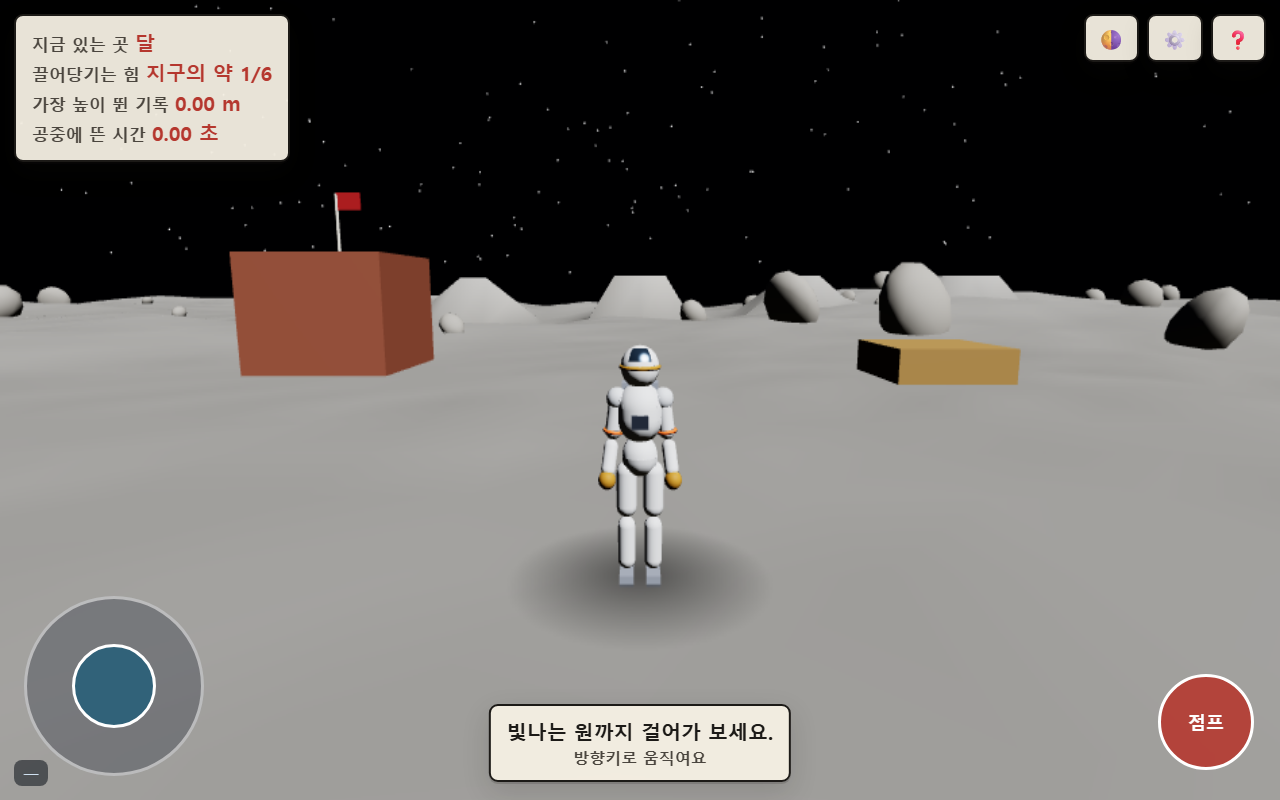
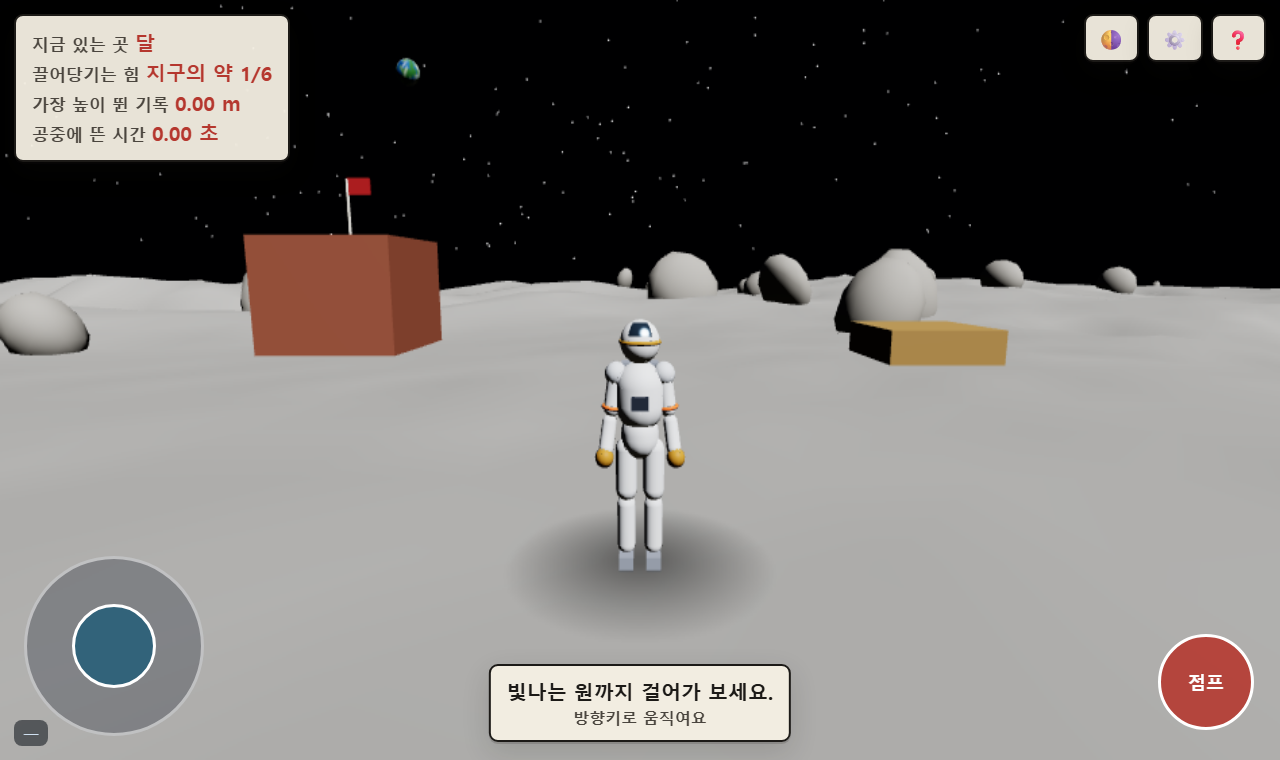
feat: 천체별 지형·하늘에 뜬 천체·관측 기능 (페이즈 3)
- 유로파 추가 (중력 지구의 약 1/7). 지구·달·화성·유로파 4곳
- 천체별 절차 지형
  · 달: 멱법칙 분포 크레이터 90개. 그릇 + 테두리 융기 + 방출물
    (테두리 융기가 없으면 크레이터가 아니라 웅덩이로 보인다)
    시작 지점 앞에 걸어 들어갈 수 있는 큰 크레이터(반경 19m) 하나를 보장
  · 화성: 리지드 노이즈 협곡 + 계단식 지층 + 모래언덕
  · 유로파: 3개 축척의 얼음 균열(리네아)
- 공기가 없는 천체는 햇빛이 물들지 않도록 광원 색을 분리.
  이것 하나로 달이 베이지색에서 회색으로 바로잡힌다
- 하늘에 뜬 천체를 실제 겉보기 크기로 렌더
  · 달에서 본 지구 1.9° (보름달의 약 3.7배)
  · 유로파에서 본 목성 11.8° (보름달의 약 23배)
  · Lambert 재질이라 태양 방향에 따라 위상이 저절로 생긴다
  · 절차 텍스처: 지구(바다·대륙·구름·극관), 목성(줄무늬·대적점)
- 관측(확대) 기능 추가 — Z 키 또는 🔭 단추
  · 시야각 60° → 15° (4배). 실제 비율을 지키면서도 크게 볼 수 있다
  · 관측 중에는 우주비행사의 눈 위치로 전환하고 캐릭터를 숨긴다
  · 하늘을 올려다볼 수 있도록 시선 상한을 넓힘

검증: 네 천체 모두 헤드리스 렌더링으로 육안 확인. 60fps 유지.

Claude-Session: https://claude.ai/code/session_01Dshw4yf527dQzpR7spUwdR

diff --git a/우주탐사-RPG.html b/우주탐사-RPG.html
@@ -184,9 +184,11 @@ input[type=range]{ flex:1 1 160px; min-width:140px; height:44px; }
     <div><span class="k">끌어당기는 힘</span> <b id="uiGrav">기준</b></div>
     <div><span class="k">가장 높이 뛴 기록</span> <b id="uiJump">0.00 m</b></div>
     <div><span class="k">공중에 뜬 시간</span> <b id="uiAir">0.00 초</b></div>
+    <div id="uiSkyRow" hidden><span class="k">하늘에 보이는 것</span> <b id="uiSky">—</b></div>
   </div>
 </div>
 <div class="ui" id="topRight" hidden>
+  <button class="icon-btn" id="btnZoom" title="관측하기 (Z)" aria-pressed="false">🔭</button>
   <button class="icon-btn" id="btnGrav" title="다른 천체의 힘으로 바꾸기">🌗</button>
   <button class="icon-btn" id="btnSettings" title="설정">⚙</button>
   <button class="icon-btn" id="btnHelp2" title="도움말">❓</button>
@@ -197,6 +199,10 @@ input[type=range]{ flex:1 1 160px; min-width:140px; height:44px; }
 </div>
 <div class="ui" id="fps" hidden>—</div>
 <div id="record"><span id="recMain"></span><small id="recSub"></small></div>
+<div class="ui panel" id="zoomHint" hidden
+     style="left:50%; transform:translateX(-50%); top:14px; font-weight:800">
+  🔭 관측 중 · 4배로 크게 보여요 <span style="font-weight:700;color:var(--ink-soft)">(Z 를 다시 누르면 꺼져요)</span>
+</div>
 
 <div id="stick"><div id="knob"></div></div>
 <button id="btnJumpTouch">점프</button>
@@ -287,7 +293,8 @@ var STEP_UP = 0.35;
 var BODIES = {
   earth: { name:'지구',   g:9.81, label:'기준',            sky:['#3a7bd5','#bcd8f5'], fog:0.0055, fogC:0xbcd8f5, ground:0x6f7d4a },
   moon:  { name:'달',     g:1.62, label:'지구의 약 1/6',   sky:['#000005','#05050c'], fog:0,      fogC:0x000000, ground:0x8d8b86 },
-  mars:  { name:'화성',   g:3.72, label:'지구의 약 1/3',   sky:['#7a6a5a','#d9a878'], fog:0.0022, fogC:0xc79a72, ground:0xa2603c }
+  mars:  { name:'화성',   g:3.72, label:'지구의 약 1/3',   sky:['#7a6a5a','#d9a878'], fog:0.0022, fogC:0xc79a72, ground:0xa2603c },
+  europa:{ name:'유로파', g:1.31, label:'지구의 약 1/7',   sky:['#000004','#04060c'], fog:0,      fogC:0x000000, ground:0xbdcde3 }
 };
 var bodyKey = 'earth';
 function G(){ return BODIES[bodyKey].g; }
@@ -457,6 +464,142 @@ var stars = (function(){
   scene.add(p); return p;
 })();
 
+/* ---------- 천체별 지형 특징 ---------- */
+function fbm01(x, z, oct, freq, gain, lac){
+  return clamp(fbm(x, z, oct, freq, gain, lac)*0.9 + 0.5, 0, 1);
+}
+var craters = [];
+function prepareBody(key){
+  craters.length = 0;
+  if(key === 'moon'){
+    // 크레이터 크기는 멱법칙 분포를 따른다. 큰 것부터 적용해야 겹침이 자연스럽다.
+    // 시작 지점 바로 앞에 걸어 들어갈 수 있는 큰 크레이터 하나를 보장한다
+    craters.push({ x:-6, z:-40, R:19 });
+    var r = mulberry32(20260908), guard = 0;
+    while(craters.length < 90 && guard++ < 3000){
+      var u = r();
+      var R = Math.min(3.2 * Math.pow(1-u, -1/1.8), 24);
+      var cx = (r()*2-1)*74, cz = (r()*2-1)*74;
+      if(Math.hypot(cx, cz) < R + 15) continue;      // 시작 광장은 비워 둔다
+      craters.push({ x:cx, z:cz, R:R });
+    }
+    craters.sort(function(a,b){ return b.R - a.R; });
+  }
+}
+function bodyFeature(x, z){
+  var k = bodyKey, i, h = 0;
+  if(k === 'moon'){
+    for(i=0;i<craters.length;i++){
+      var c = craters[i];
+      var d = Math.hypot(x-c.x, z-c.z) / c.R;
+      if(d > 1.45) continue;
+      var bowl = -c.R * 0.24 * (1 - d*d);                                   // 그릇
+      var rim  =  c.R * 0.115 * Math.exp(-Math.pow((d-1.0)/0.17, 2));       // 테두리 융기
+      h += (bowl + rim) * smoothstep(1.45, 0.0, d);
+    }
+    return h;   // 테두리 융기가 없으면 크레이터가 아니라 그냥 웅덩이로 보인다
+  }
+  if(k === 'mars'){
+    function ridged(xx, zz, f){
+      var v = fbm01(xx, zz, 4, f, 0.5, 2.1);
+      v = 1 - Math.abs(2*v - 1);
+      return v*v;
+    }
+    var mask = smoothstep(0.55, 0.86, ridged(x, z, 1/95));
+    var cut  = smoothstep(0.40, 0.76, ridged(x*1.7+300, z*1.7, 1/45));
+    h = -9.0 * mask * cut;
+    var stepped = Math.round(h/2.2)*2.2;             // 계단식 지층
+    h = lerp(h, stepped, 0.55);
+    h += 1.0 * Math.sin((x*0.62 + z*0.28)*0.10 + fbm(x,z,2,1/40,0.5,2)*3.0);  // 모래언덕
+    return h;
+  }
+  if(k === 'europa'){
+    var scales = [1/60, 1/33, 1/18];
+    for(i=0;i<scales.length;i++){
+      var f = scales[i];
+      var w = fbm01(x + f*900, z, 3, f, 0.5, 2.0);
+      var band = smoothstep(0.485, 0.500, w) - smoothstep(0.500, 0.515, w);   // 얇은 띠
+      h -= 2.4 * band * (f*60);                     // 큰 균열일수록 깊게
+    }
+    return h;
+  }
+  return 0;
+}
+
+/* ---------- 하늘에 뜬 다른 천체 ---------- */
+/* 겉보기 크기를 실제 비율로 맞춘다.
+   달에서 본 지구 = 1.9° (지구에서 본 보름달 0.52° 의 약 3.7배)
+   유로파에서 본 목성 = 11.8° (보름달의 약 23배) */
+function makeEarthTex(){
+  var c = document.createElement('canvas'); c.width = 512; c.height = 256;
+  var g2 = c.getContext('2d'), r = mulberry32(31);
+  g2.fillStyle = '#1c4f8f'; g2.fillRect(0,0,512,256);                 // 바다
+  g2.fillStyle = '#2f6ea8';
+  for(var i=0;i<40;i++){ g2.beginPath();
+    g2.ellipse(r()*512, r()*256, 20+r()*50, 10+r()*24, r()*3, 0, 6.3); g2.fill(); }
+  g2.fillStyle = '#3f7d3a';                                           // 대륙
+  for(var i=0;i<26;i++){ g2.beginPath();
+    g2.ellipse(r()*512, 40+r()*176, 16+r()*46, 10+r()*30, r()*3, 0, 6.3); g2.fill(); }
+  g2.fillStyle = '#6f9a48';
+  for(var i=0;i<20;i++){ g2.beginPath();
+    g2.ellipse(r()*512, 50+r()*156, 8+r()*22, 6+r()*16, r()*3, 0, 6.3); g2.fill(); }
+  g2.fillStyle = '#f2f6fa';                                           // 극관
+  g2.fillRect(0,0,512,16); g2.fillRect(0,240,512,16);
+  g2.globalAlpha = 0.55;                                              // 구름
+  for(var i=0;i<44;i++){ g2.beginPath();
+    g2.ellipse(r()*512, r()*256, 18+r()*40, 5+r()*12, r()*3, 0, 6.3); g2.fill(); }
+  g2.globalAlpha = 1;
+  var t = new THREE.CanvasTexture(c); t.encoding = THREE.sRGBEncoding; return t;
+}
+function makeJupiterTex(){
+  var c = document.createElement('canvas'); c.width = 512; c.height = 256;
+  var g2 = c.getContext('2d'), r = mulberry32(57);
+  var bands = ['#e8d9bd','#c99a6a','#efe4cd','#a97f5c','#dcc9a6','#b98d63','#f0e6d2','#c0916a'];
+  var y = 0;
+  while(y < 256){
+    var hgt = 8 + r()*26;
+    g2.fillStyle = bands[Math.floor(r()*bands.length)];
+    g2.fillRect(0, y, 512, hgt);
+    y += hgt;
+  }
+  g2.globalAlpha = 0.35;                                              // 소용돌이
+  for(var i=0;i<70;i++){ g2.fillStyle = bands[Math.floor(r()*bands.length)];
+    g2.beginPath(); g2.ellipse(r()*512, r()*256, 14+r()*44, 3+r()*7, 0, 0, 6.3); g2.fill(); }
+  g2.globalAlpha = 1;
+  g2.fillStyle = '#b5533a';                                           // 대적점
+  g2.beginPath(); g2.ellipse(150, 168, 46, 20, 0, 0, 6.3); g2.fill();
+  g2.fillStyle = '#8f3c2a';
+  g2.beginPath(); g2.ellipse(150, 168, 26, 11, 0, 0, 6.3); g2.fill();
+  var t = new THREE.CanvasTexture(c); t.encoding = THREE.sRGBEncoding; return t;
+}
+var skyBody = null, skyBodyLabel = '';
+function buildSkyBody(key){
+  if(skyBody){
+    scene.remove(skyBody);
+    skyBody.geometry.dispose();
+    if(skyBody.material.map) skyBody.material.map.dispose();
+    skyBody.material.dispose();
+    skyBody = null;
+  }
+  skyBodyLabel = '';
+  var cfg = null;
+  if(key === 'moon')   cfg = { label:'지구', ang:1.9,  tex:makeEarthTex(),   az:2.98, alt:0.26 };
+  if(key === 'europa') cfg = { label:'목성', ang:11.8, tex:makeJupiterTex(), az:2.90, alt:0.24 };
+  if(!cfg) return;
+  var DIST = 300;
+  var radius = DIST * Math.tan(cfg.ang*0.5*Math.PI/180);
+  skyBody = new THREE.Mesh(
+    new THREE.SphereGeometry(radius, 32, 24),
+    new THREE.MeshLambertMaterial({ map:cfg.tex, fog:false })
+  );
+  // Lambert 라서 태양 방향에 따라 위상이 저절로 생긴다 (차고 기운다)
+  skyBody.userData = { dist:DIST, az:cfg.az, alt:cfg.alt };
+  skyBody.frustumCulled = false;
+  skyBody.rotation.z = 0.35;
+  scene.add(skyBody);
+  skyBodyLabel = cfg.label;
+}
+
 /* ---------- 지형 ---------- */
 var TER = { size:160, seg:quality.seg, cell:0, H:null, mesh:null };
 var platforms = [];    // { x, z, w, d, top }  — 윗면에 올라설 수 있는 상자
@@ -479,15 +622,20 @@ function rampField(x, z){
   return best;
 }
 function terrainHeightRaw(x, z){
-  var h = 6.5 * fbm(x, z, 5, 1/70, 0.5, 2.03);
-  h += 2.2 * fbm(x+400, z-220, 3, 1/26, 0.5, 2.1);
+  var amp = (bodyKey === 'mars') ? 4.2 : (bodyKey === 'earth' ? 6.5 : 5.0);
+  var h = amp * fbm(x, z, 5, 1/70, 0.5, 2.03);
+  h += 2.0 * fbm(x+400, z-220, 3, 1/26, 0.5, 2.1);
   var r = Math.hypot(x, z);
   h *= smoothstep(11, 28, r);                 // 시작 광장은 평평하게
-  var rp = rampField(x, z);
-  if(rp > -900) h = Math.max(h, rp);
+  h += bodyFeature(x, z) * smoothstep(9, 20, r);   // 크레이터·협곡·얼음 균열
+  if(bodyKey === 'earth'){                    // 경사 램프는 지구 훈련장에만
+    var rp = rampField(x, z);
+    if(rp > -900) h = Math.max(h, rp);
+  }
   return h;
 }
 function buildTerrain(){
+  prepareBody(bodyKey);
   if(TER.mesh){ scene.remove(TER.mesh); TER.mesh.geometry.dispose(); }
   var SEG = TER.seg, S = TER.size;
   TER.cell = S / SEG;
@@ -509,7 +657,8 @@ function buildTerrain(){
   var base = new THREE.Color(BODIES[bodyKey].ground);
   var low = base.clone().multiplyScalar(0.82);
   var high = base.clone().lerp(new THREE.Color(0xffffff), 0.22);
-  var rock = new THREE.Color(bodyKey==='earth' ? 0x8a8272 : (bodyKey==='moon' ? 0xb4b1ab : 0xc07a4e));
+  var rock = new THREE.Color(bodyKey==='earth' ? 0x8a8272 :
+  (bodyKey==='moon' ? 0xb4b1ab : (bodyKey==='europa' ? 0x9fb0c6 : 0xc07a4e)));
   var c = new THREE.Color();
   for(var j=0;j<=SEG;j++) for(var i=0;i<=SEG;i++){
     var idx = j*(SEG+1)+i;
@@ -602,7 +751,8 @@ function buildProps(){
 
   // 바위
   var r = mulberry32(11), rockGeo = new THREE.IcosahedronGeometry(1, 1);
-  var rockMat = matte(bodyKey==='earth' ? 0x7d7466 : (bodyKey==='moon' ? 0xa9a6a0 : 0x9a5a3a), 3);
+  var rockMat = matte(bodyKey==='earth' ? 0x7d7466 :
+    (bodyKey==='moon' ? 0xa9a6a0 : (bodyKey==='europa' ? 0xc8d4e2 : 0x9a5a3a)), 3);
   var inst = new THREE.InstancedMesh(rockGeo, rockMat, quality.rocks);
   inst.castShadow = quality.shadow; inst.receiveShadow = quality.shadow;
   var dummy = new THREE.Object3D(), n = 0, tries = 0;
@@ -921,6 +1071,7 @@ var SPAWN = new THREE.Vector3(0, 0, 6);
 var CAM = { yaw:0, pitch:0.16, dist:5.0, cur:5.0, target:new THREE.Vector3(),
             trauma:0, fov:60 };
 var camTarget = new THREE.Vector3();
+var _eye = new THREE.Vector3(), _look = new THREE.Vector3();
 
 function boomAllowed(origin, dir, want){
   var SAMPLES = 10, RAD = 0.32, allowed = want, step = want/SAMPLES;
@@ -945,6 +1096,14 @@ function noise1(t){ return Math.sin(t*1.7)*0.5 + Math.sin(t*3.1+1.3)*0.3 + Math.
 /* ---------- 입력 ---------- */
 var keys = {}, stickVec = {x:0,y:0}, jumpTouch = false, uiBusy = false;
 var mouse = { down:false, lx:0, ly:0, dragging:false };
+var zoomOn = false;                 // 관측(확대) 모드
+function setZoom(v){
+  zoomOn = v;
+  var b = document.getElementById('btnZoom');
+  b.setAttribute('aria-pressed', String(v));
+  b.style.background = v ? 'rgba(194,143,44,.95)' : 'rgba(246,241,228,.94)';
+  document.getElementById('zoomHint').hidden = !v;
+}
 
 addEventListener('keydown', function(e){
   var k = e.key.toLowerCase();
@@ -952,6 +1111,7 @@ addEventListener('keydown', function(e){
   if(['arrowup','arrowdown','arrowleft','arrowright',' '].indexOf(k) >= 0) e.preventDefault();
   if(k === ' ') P.buffer = jumpBufferTime();
   if(k === 'r') respawn();
+  if(k === 'z') setZoom(!zoomOn);
 });
 addEventListener('keyup', function(e){ keys[e.key.toLowerCase()] = false; });
 addEventListener('blur', function(){ keys = {}; });
@@ -967,7 +1127,7 @@ addEventListener('mousemove', function(e){
   if(!mouse.down) return;
   var dx = e.clientX - mouse.lx, dy = e.clientY - mouse.ly;
   mouse.lx = e.clientX; mouse.ly = e.clientY;
-  var s = 0.0026 * opt.sens * (opt.mode === 'easy' ? 0.6 : 1);
+  var s = 0.0026 * opt.sens * (opt.mode === 'easy' ? 0.6 : 1) * (zoomOn ? 0.30 : 1);
   CAM.yaw   -= dx * s;
   CAM.pitch  = clamp(CAM.pitch + dy * s, -0.62, 1.15);
   camIdle = 0;
@@ -1076,22 +1236,28 @@ function setBody(key){
   skyUniforms.uGlow.value = (key === 'earth') ? 0.55 : 0.12;
   scene.fog = b.fog > 0 ? new THREE.FogExp2(b.fogC, b.fog) : null;
   stars.visible = (b.fog === 0);
-  hemi.color.set(key==='earth' ? 0xbcd8f5 : (key==='moon' ? 0x2a3040 : 0xd9a878));
+  hemi.color.set(key==='earth' ? 0xbcd8f5 :
+    (key==='mars' ? 0xd9a878 : (key==='europa' ? 0x2b3950 : 0x2a3040)));
   // 공기가 없는 곳의 햇빛은 물들지 않는다 — 달을 회색으로 보이게 하는 핵심
-  sun.color.set(key==='earth' ? 0xfff4e2 : (key==='moon' ? 0xffffff : 0xffe8d0));
+  sun.color.set(key==='mars' ? 0xffe8d0 : (key==='earth' ? 0xfff4e2 : 0xffffff));
   hemi.intensity = key==='earth' ? 0.55 : 0.30;
   P.bestJump = 0; P.bestAir = 0;
   document.getElementById('uiBody').textContent = b.name;
   document.getElementById('uiGrav').textContent = b.label;
   document.getElementById('uiJump').textContent = '0.00 m';
   document.getElementById('uiAir').textContent = '0.00 초';
+  buildSkyBody(key);
+  document.getElementById('uiSkyRow').hidden = !skyBodyLabel;
+  document.getElementById('uiSky').textContent = skyBodyLabel || '—';
   buildTerrain(); buildProps();
   P.pos.y = sampleH(P.pos.x, P.pos.z);
   if(!firstBodySet){
     if(key === 'moon'){
-      showRecord('달의 힘으로 바뀌었어요', '달도 우리를 끌어당겨요. 지구보다 약할 뿐이에요');
+      showRecord('달에 왔어요', '하늘을 올려다보면 지구가 보여요. 달도 우리를 끌어당겨요 — 지구보다 약할 뿐이에요');
     } else if(key === 'mars'){
-      showRecord('화성의 힘으로 바뀌었어요', '지구의 약 3분의 1이에요');
+      showRecord('화성에 왔어요', '끌어당기는 힘은 지구의 약 3분의 1이에요');
+    } else if(key === 'europa'){
+      showRecord('유로파에 왔어요', '목성의 얼음 위성이에요. 하늘에 목성이 크게 떠 있어요');
     } else {
       showRecord('지구로 돌아왔어요', '이제 기준이 되는 힘이에요');
     }
@@ -1257,24 +1423,43 @@ function tick(t){
   CAM.target.y = lerp(CAM.target.y, camTarget.y, 1 - Math.exp(-6*dt));
   var cp = Math.cos(CAM.pitch), sp = Math.sin(CAM.pitch);
   var dir = new THREE.Vector3(Math.sin(CAM.yaw)*cp, sp, Math.cos(CAM.yaw)*cp);
-  var allowed = boomAllowed(CAM.target, dir, CAM.dist);
-  if(allowed < CAM.cur) CAM.cur = allowed;
-  else CAM.cur += (allowed - CAM.cur) * (1 - Math.exp(-3.5*dt));
-  camera.position.copy(CAM.target).addScaledVector(dir, CAM.cur);
-  camera.lookAt(CAM.target);
+  if(zoomOn){
+    // 관측할 때는 우주비행사의 눈으로 본다 (3인칭이면 자기 뒤통수가 시야를 가린다)
+    _eye.set(P.pos.x, P.pos.y + 1.62, P.pos.z);
+    camera.position.copy(_eye);
+    _look.copy(_eye).addScaledVector(dir, -1);
+    camera.lookAt(_look);
+    if(CH.mesh) CH.mesh.visible = false;
+    if(CH.blob) CH.blob.visible = false;
+  } else {
+    if(CH.mesh) CH.mesh.visible = true;
+    if(CH.blob) CH.blob.visible = true;
+    var allowed = boomAllowed(CAM.target, dir, CAM.dist);
+    if(allowed < CAM.cur) CAM.cur = allowed;
+    else CAM.cur += (allowed - CAM.cur) * (1 - Math.exp(-3.5*dt));
+    camera.position.copy(CAM.target).addScaledVector(dir, CAM.cur);
+    camera.lookAt(CAM.target);
+  }
   if(CAM.trauma > 0.001){
     var s = CAM.trauma*CAM.trauma, tt = t/1000;
     camera.rotation.x += s*0.035*noise1(tt*22);
     camera.rotation.y += s*0.035*noise1(tt*22+17);
     camera.rotation.z += s*0.020*noise1(tt*22+41);
   }
-  var wantFov = lerp(60, 68, P.runBlend);
+  var wantFov = zoomOn ? 15 : lerp(60, 68, P.runBlend);
   if(Math.abs(camera.fov - wantFov) > 0.05){
     camera.fov += (wantFov - camera.fov) * (1 - Math.exp(-4*dt));
     camera.updateProjectionMatrix();
   }
   sky.position.copy(camera.position);
   stars.position.copy(camera.position);
+  if(skyBody){
+    var ud = skyBody.userData;
+    skyBody.position.set(
+      camera.position.x + Math.sin(ud.az)*Math.cos(ud.alt)*ud.dist,
+      camera.position.y + Math.sin(ud.alt)*ud.dist,
+      camera.position.z + Math.cos(ud.az)*Math.cos(ud.alt)*ud.dist);
+  }
 
   // 그림자 광원 추적 (텍셀 단위 양자화로 떨림 방지)
   var q = (2*SS)/1024;
@@ -1305,6 +1490,9 @@ function reapplyQuality(){
   renderer.shadowMap.enabled = quality.shadow;
   sun.castShadow = quality.shadow;
   TER.seg = quality.seg;
+  buildSkyBody(key);
+  document.getElementById('uiSkyRow').hidden = !skyBodyLabel;
+  document.getElementById('uiSky').textContent = skyBodyLabel || '—';
   buildTerrain(); buildProps();
   resize();
   qualHistory = 1;
@@ -1350,8 +1538,10 @@ addEventListener('keydown', function(e){
   document.getElementById('help').classList.remove('on');
 });
 
-var bodyOrder = ['earth','moon','mars'], bodyIdx = 0;
+var bodyOrder = ['earth','moon','mars','europa'], bodyIdx = 0;
+document.getElementById('btnZoom').onclick = function(){ setZoom(!zoomOn); };
 document.getElementById('btnGrav').onclick = function(){
+  setZoom(false);
   bodyIdx = (bodyIdx+1) % bodyOrder.length;
   setBody(bodyOrder[bodyIdx]);
 };
